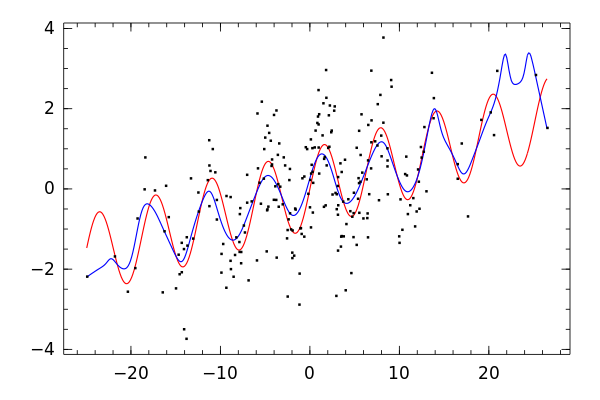
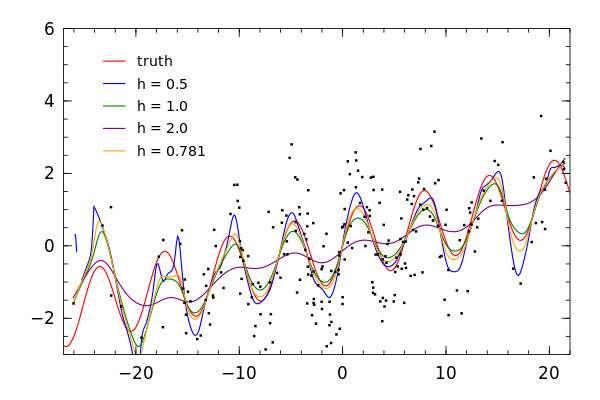
Updated documentation

diff --git a/README.md b/README.md
@@ -4,14 +4,19 @@
 
 ## About
 
-KernSmooth.jl is the start of a direct port of the R package [KernSmooth](http://cran.r-project.org/web/packages/KernSmooth/index.html), (v2.23-10.)
+KernSmooth.jl is the a partial port of the R package [KernSmooth](http://cran.r-project.org/web/packages/KernSmooth/index.html), (v2.23-10.)
 The R package carries an unlimited license.
 
-Currently the `locpoly` function is implemented, which uses local polynomials to estimate pdf of a single variable or a regression function for two variables, or their derivatives.
+Currently the `locpoly` and `dpill` functions are ported.
+`locpoly` uses local polynomials to estimate pdf of a single variable or a regression function for two variables, or their derivatives.
+`dpill` provides a method to select a bandwidth for local linear regression.
+
+Other functionality provided by the R package but not ported to KernSmooth.jl pertains to univariate and bivariate kernel density estimation.
+Univariate and bivariate kernel density estimation is provided by the `kde` function in [StatsBase.jl](https://github.com/JuliaStats/StatsBase.jl/).
 
 ## Usage
 
-### `locpoly`
+### `locpoly` - Estimate regression or density functions or their derivatives using local polynomials
 
 The method signatures:
 ```julia
@@ -35,31 +40,38 @@ locpoly(x::Vector{Float64}, bandwidth::Union(Float64, Vector{Float64}); args...)
 
 A `(Vector{Float64}, Vector{Float64})` is returned.  The first vector is the sorted set of points at which an estimate was computed. The estimates are in the second vector.
 
-#### Regression example
+### `dpill` - Direct plug-in method to select a bandwidth for local linear Gaussian kernel regression
+
+The method signature
+```julia
+function dpill(x::Vector{Float64}, y::Vector{Float64};
+               blockmax::Int = 5,
+               divisor::Int = 20,
+               trim::Float64 = 0.01,
+               proptrun::Float64 = 0.05,
+               gridsize::Int = 401,
+               range_x::Vector{Float64} = Float64[],
+               truncate = true)
+```
+* `x` - vector of x data
+* `y` - vector of y data.
+* Other arguments are optional. For their descriptions, see the [R documentation](https://stat.ethz.ch/R-manual/R-devel/library/KernSmooth/html/dpill.html)
+
+## Regression example
+
+Estimate regression using different bandwidths, including the bandwidth selected by `dpill`.
 
 ```julia
-using KernSmooth
-X = randn(250) * 10
-Y = sin(X) + X ./15.0 + randn(250)
-
-#estimate E(Y|X)
-xgrid, yhat = locpoly(X, Y, 1.0)
-
-#plot results with Winston
-using Winston
-
-ytrue = sin(xgrid) + xgrid ./15.0
-
-p = FramedPlot(xrange=(-30, 30), yrange = (-4,4))
-t = Curve(xgrid, ytrue, color="red")
-setattr(t, label="truth")
-f = Curve(xgrid, yhat, color="blue")
-setattr(f, label="fit")
-s = Points(X, Y, kind = "dot")
-l = Legend(.1, .9, {t,f})
-add(p, t, f, s, l)
+xgrid2, yhat0_5 = locpoly(x, y, 0.5)
+yhat1_0 = locpoly(x, y, 1.0)[2]
+yhat2_0 = locpoly(x, y, 2.0)[2]
+h = dpill(x, y)
+yhath = locpoly(x, y, h)[2]
 ```
 <!-- file("scatter.png", height=400, width=600) -->
+A plot of the estimates and true regression:
 
 !["Scatter plot"](examples/scatter.png)
+
+The full code for the example is [here](http://nbviewer.ipython.org/gist/lendle/9314892).
 
